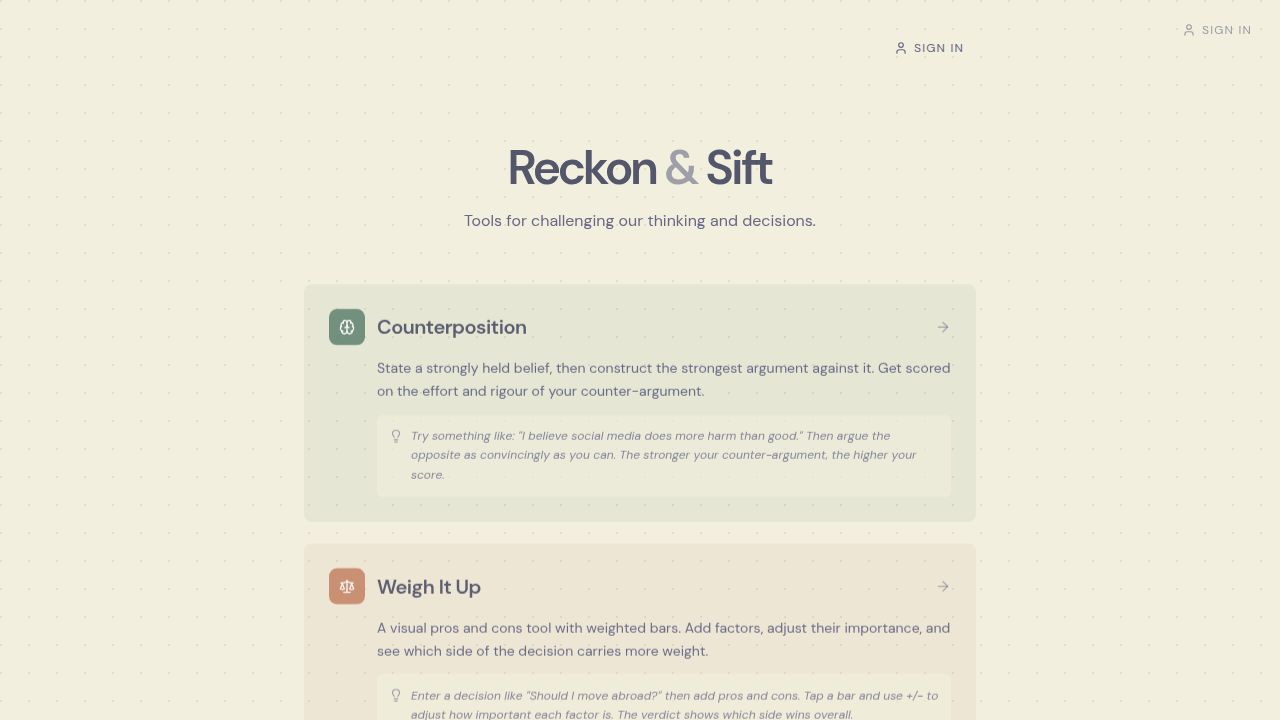
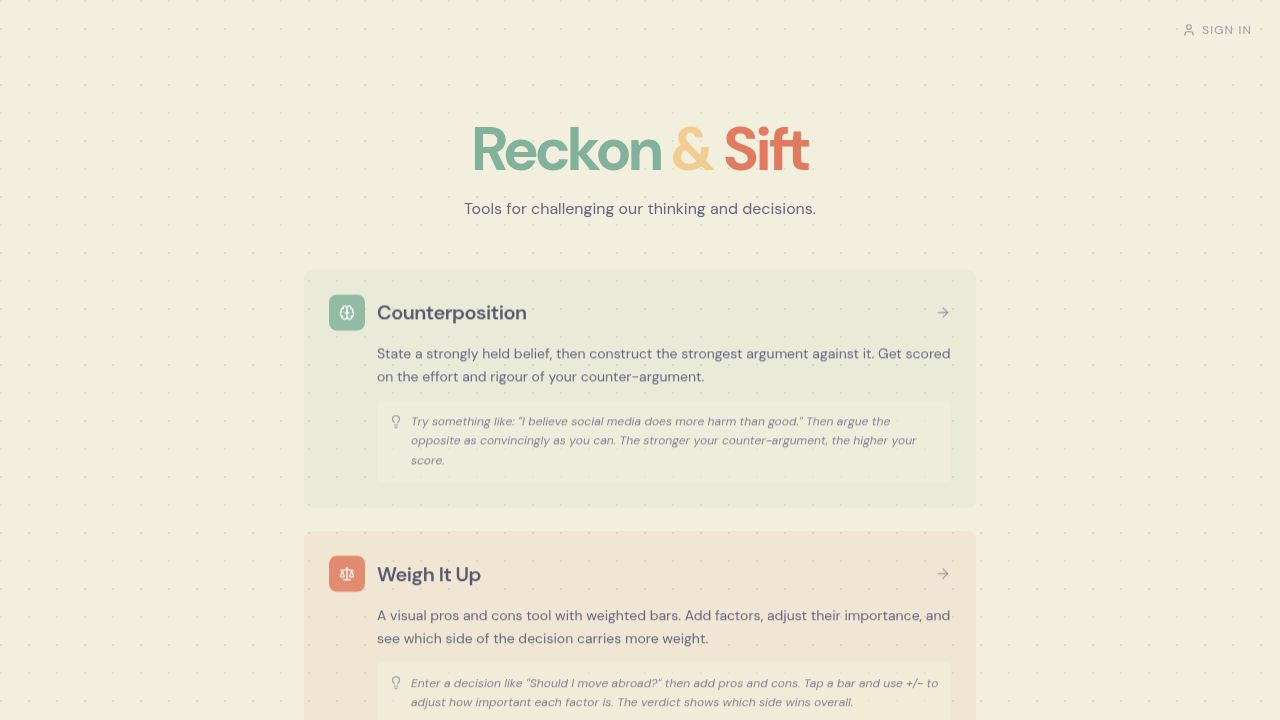
Enhance home page title and remove duplicate sign-in
Refactor home page to remove redundant authentication UI and apply a larger, colorful title.

Replit-Commit-Author: Agent
Replit-Commit-Session-Id: c56cb9f0-ece5-44cb-8091-604c8c0c9004
Replit-Commit-Checkpoint-Type: full_checkpoint
Replit-Commit-Event-Id: 75607a2a-0790-4f01-87b1-2c3e015da55a
Replit-Commit-Screenshot-Url: https://storage.googleapis.com/screenshot-production-us-central1/ae5b64c9-4776-44ef-aa27-5b3fa9850580/c56cb9f0-ece5-44cb-8091-604c8c0c9004/g1K758F
Replit-Helium-Checkpoint-Created: true

diff --git a/client/src/pages/home.tsx b/client/src/pages/home.tsx
@@ -1,10 +1,6 @@
-import { useState } from "react";
 import { motion } from "framer-motion";
-import { ArrowRight, Brain, Scale, Unlink, Lightbulb, Clock, User, LogOut } from "lucide-react";
+import { ArrowRight, Brain, Scale, Unlink, Lightbulb } from "lucide-react";
 import { Link } from "wouter";
-import { useAuth } from "@/hooks/use-auth";
-import { Input } from "@/components/ui/input";
-import { Button } from "@/components/ui/button";
 
 const tools = [
   {
@@ -37,126 +33,20 @@ const tools = [
 ];
 
 export default function Home() {
-  const { user, login, signup, logout, isLoading } = useAuth();
-  const [showAuth, setShowAuth] = useState(false);
-  const [authMode, setAuthMode] = useState<"login" | "signup">("login");
-  const [email, setEmail] = useState("");
-  const [password, setPassword] = useState("");
-  const [authError, setAuthError] = useState("");
-  const [authLoading, setAuthLoading] = useState(false);
-
-  const handleAuth = async () => {
-    if (!email.trim() || !password.trim()) return;
-    setAuthLoading(true);
-    setAuthError("");
-    try {
-      if (authMode === "signup") await signup(email, password);
-      else await login(email, password);
-      setShowAuth(false);
-      setEmail("");
-      setPassword("");
-    } catch (err: unknown) {
-      setAuthError(err instanceof Error ? err.message : "Something went wrong");
-    } finally {
-      setAuthLoading(false);
-    }
-  };
-
   return (
     <div className="min-h-screen p-6 flex flex-col">
       <div className="max-w-2xl mx-auto w-full flex-1 flex flex-col">
-        <div className="flex justify-end gap-2 pt-2">
-          {user ? (
-            <>
-              <Link href="/history">
-                <button className="flex items-center gap-1.5 text-xs uppercase tracking-widest text-muted-foreground hover:text-foreground transition-colors px-3 py-2" data-testid="link-history">
-                  <Clock className="h-3.5 w-3.5" />
-                  History
-                </button>
-              </Link>
-              <button
-                onClick={() => logout()}
-                className="flex items-center gap-1.5 text-xs uppercase tracking-widest text-muted-foreground hover:text-foreground transition-colors px-3 py-2"
-                data-testid="button-logout"
-              >
-                <LogOut className="h-3.5 w-3.5" />
-                {user.email}
-              </button>
-            </>
-          ) : (
-            <button
-              onClick={() => { setShowAuth(!showAuth); setAuthError(""); }}
-              className="flex items-center gap-1.5 text-xs uppercase tracking-widest text-muted-foreground hover:text-foreground transition-colors px-3 py-2"
-              data-testid="button-show-auth"
-            >
-              <User className="h-3.5 w-3.5" />
-              Sign In
-            </button>
-          )}
-        </div>
-
-        {showAuth && !user && (
-          <motion.div
-            initial={{ opacity: 0, y: -10 }}
-            animate={{ opacity: 1, y: 0 }}
-            className="border-2 border-muted rounded-md p-4 mb-4 max-w-sm ml-auto"
-            data-testid="auth-form-home"
-          >
-            <div className="flex gap-2 mb-3">
-              <button
-                onClick={() => { setAuthMode("login"); setAuthError(""); }}
-                className={`text-xs font-bold uppercase tracking-widest px-3 py-1 rounded-md ${authMode === "login" ? "bg-foreground text-background" : "text-muted-foreground"}`}
-                data-testid="tab-login"
-              >
-                Log In
-              </button>
-              <button
-                onClick={() => { setAuthMode("signup"); setAuthError(""); }}
-                className={`text-xs font-bold uppercase tracking-widest px-3 py-1 rounded-md ${authMode === "signup" ? "bg-foreground text-background" : "text-muted-foreground"}`}
-                data-testid="tab-signup"
-              >
-                Sign Up
-              </button>
-            </div>
-            <div className="space-y-2">
-              <Input
-                placeholder="Email"
-                value={email}
-                onChange={e => setEmail(e.target.value)}
-                className="rounded-md border-2 border-muted h-9 text-sm"
-                data-testid="input-auth-email"
-              />
-              <Input
-                type="password"
-                placeholder="Password"
-                value={password}
-                onChange={e => setPassword(e.target.value)}
-                className="rounded-md border-2 border-muted h-9 text-sm"
-                onKeyDown={e => e.key === "Enter" && handleAuth()}
-                data-testid="input-auth-password"
-              />
-              {authError && <p className="text-xs text-destructive">{authError}</p>}
-              <Button
-                onClick={handleAuth}
-                disabled={authLoading || !email.trim() || !password.trim()}
-                className="w-full rounded-md h-9 text-xs uppercase tracking-widest"
-                data-testid="button-auth-submit"
-              >
-                {authLoading ? "..." : authMode === "signup" ? "Create Account" : "Log In"}
-              </Button>
-            </div>
-          </motion.div>
-        )}
-
         <motion.div
           initial={{ opacity: 0, y: 10 }}
           animate={{ opacity: 1, y: 0 }}
           transition={{ duration: 0.8 }}
           className="flex-1 flex flex-col"
         >
-          <div className="text-center pt-12 sm:pt-20 pb-10">
-            <h1 className="text-4xl sm:text-5xl font-semibold tracking-tight leading-none text-foreground/90">
-              Reckon <span className="text-muted-foreground/60">&</span> Sift
+          <div className="text-center pt-16 sm:pt-24 pb-10">
+            <h1 className="text-5xl sm:text-6xl font-bold tracking-tight leading-none">
+              <span className="text-[#81B29A]">Reckon</span>{" "}
+              <span className="text-[#F2CC8F]">&</span>{" "}
+              <span className="text-[#E07A5F]">Sift</span>
             </h1>
             <p className="text-base text-muted-foreground mt-4 max-w-md mx-auto leading-relaxed">
               Tools for challenging our thinking and decisions.
